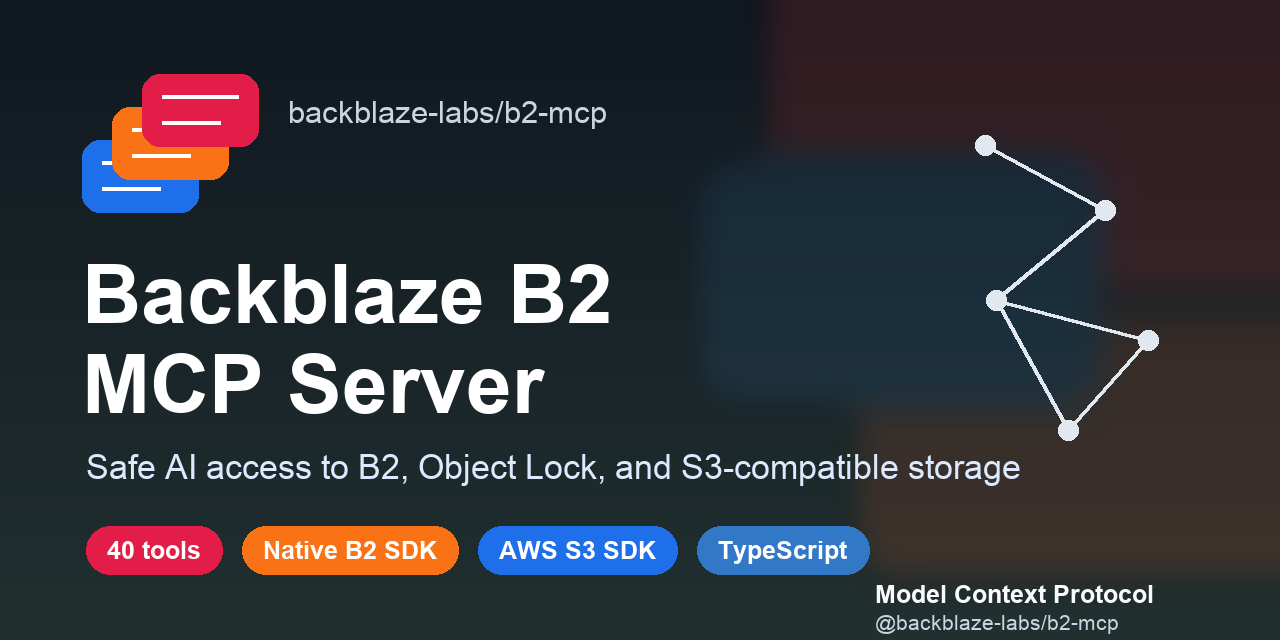
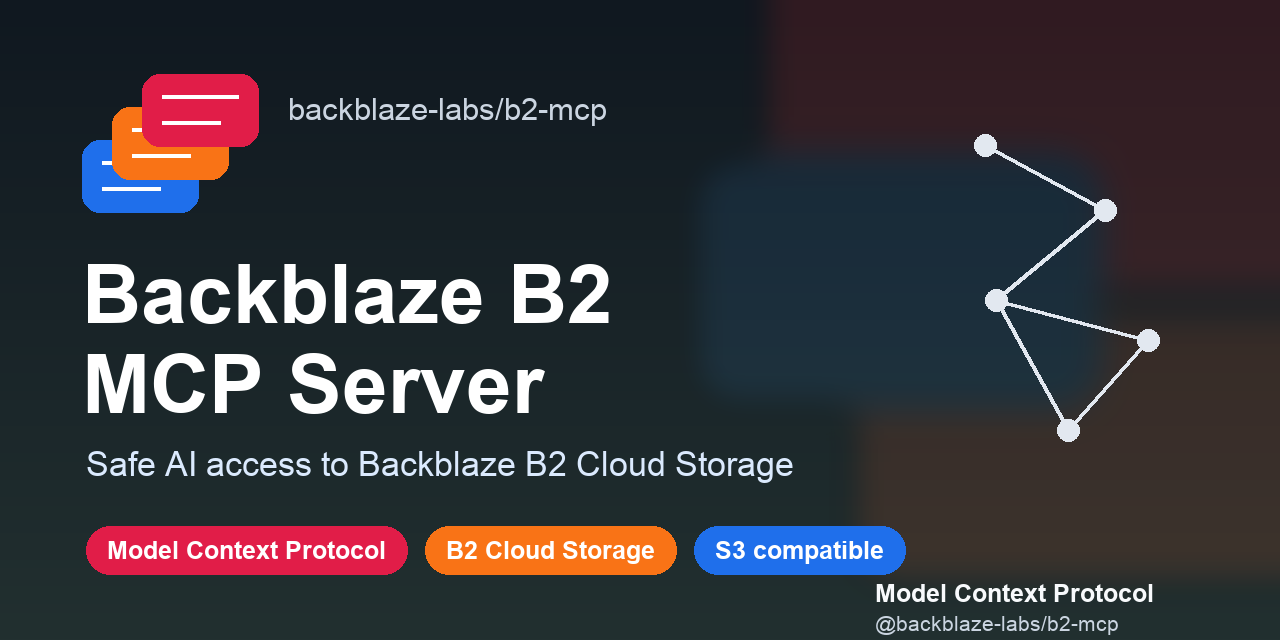
docs: address SEO metadata review

Changed region(s): [[0.0625, 0.8125, 0.9062, 1.0], [0.0625, 0.6875, 0.8125, 0.75], [0.2188, 0.1562, 0.4688, 0.2188]]

diff --git a/tests/contract/readme-drift.contract.test.ts b/tests/contract/readme-drift.contract.test.ts
@@ -87,10 +87,14 @@ describe("README project badges", () => {
     expect(readme).toContain("TypeScript-6.x-3178c6");
     expect(readme).toContain("Node.js-22.3%2B%20%7C%2024%20%7C%2026-339933");
     expect(readme).toContain("MCP-2026--07--28-5b5fc7");
-    expect(readme).toContain("MCP_Registry-io.github.backblaze--labs%2Fb2--mcp-5b5fc7");
-    expect(readme).toContain("Smithery-MCP_directory-2b6cb0");
-    expect(readme).toContain("Glama-MCP_directory-0f766e");
     expect(readme).toContain(`runtime_dependencies-${dependencyCount}-blue`);
+  });
+
+  it("defers discovery badges until stable listing URLs exist", () => {
+    expect(readme).toContain("Directory badges for MCP Registry, Smithery, and Glama are deferred");
+    expect(readme).not.toContain("registry.modelcontextprotocol.io/?search=");
+    expect(readme).not.toContain("smithery.ai/servers?q=");
+    expect(readme).not.toContain("glama.ai/mcp/servers?query=");
   });
 });
 

diff --git a/README.md b/README.md
@@ -7,9 +7,7 @@
 [![TypeScript](https://img.shields.io/badge/TypeScript-6.x-3178c6?logo=typescript&logoColor=white)](https://www.typescriptlang.org/)
 [![Node.js](https://img.shields.io/badge/Node.js-22.3%2B%20%7C%2024%20%7C%2026-339933?logo=nodedotjs&logoColor=white)](https://nodejs.org/)
 [![MCP](https://img.shields.io/badge/MCP-2026--07--28-5b5fc7)](https://modelcontextprotocol.io/specification/2026-07-28)
-[![MCP Registry](https://img.shields.io/badge/MCP_Registry-io.github.backblaze--labs%2Fb2--mcp-5b5fc7)](https://registry.modelcontextprotocol.io/?search=io.github.backblaze-labs%2Fb2-mcp)
-[![Smithery](https://img.shields.io/badge/Smithery-MCP_directory-2b6cb0)](https://smithery.ai/servers?q=%40backblaze-labs%2Fb2-mcp)
-[![Glama](https://img.shields.io/badge/Glama-MCP_directory-0f766e)](https://glama.ai/mcp/servers?query=backblaze-labs%2Fb2-mcp)
+<!-- Directory badges for MCP Registry, Smithery, and Glama are deferred until stable per-server listing URLs exist. Do not link badges to search-result URLs. -->
 [![Coverage floors](https://img.shields.io/badge/coverage-S%2094.3%20%7C%20B%2088%20%7C%20F%2097.2%20%7C%20L%2096.6-brightgreen)](docs/TESTING.md)
 [![Runtime dependencies](https://img.shields.io/badge/runtime_dependencies-9-blue)](package-budget.json)
 

diff --git a/.github/social-preview.md b/.github/social-preview.md
@@ -1,0 +1,30 @@
+# GitHub Social Preview
+
+`.github/social-preview.png` is the source-controlled candidate for the
+repository's GitHub social preview image. GitHub does not consume this path
+automatically. A maintainer with repository Settings access must upload the PNG
+manually through Settings -> Social preview.
+
+Editable source: `.github/social-preview.svg`.
+
+Regeneration process:
+
+1. Edit `.github/social-preview.svg`.
+2. Export a 1280x640 PNG to `.github/social-preview.png` with an SVG-aware
+   editor or renderer.
+3. Upload `.github/social-preview.png` in GitHub Settings -> Social preview.
+4. Verify the live repository reports `usesCustomOpenGraphImage: true`:
+
+```bash
+gh repo view backblaze-labs/b2-mcp \
+  --json usesCustomOpenGraphImage,openGraphImageUrl
+```
+
+Drift checklist:
+
+- Regenerate and re-upload the preview when the repository name, product name,
+  primary positioning, or Backblaze B2 branding changes.
+- Avoid mutable facts in the image: tool counts, backing-category counts,
+  protocol dates, dependency versions, coverage values, and release versions.
+- Treat the PNG as stale until the GitHub repository setting has been updated
+  and verified.
